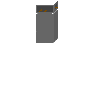
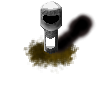
Montagnes, Megalopole, sons en combats, nouvelle image tour de défense
git-svn-id: svn://svn.gna.org/svn/menareants/trunk@818 6832cf7c-ce15-0410-9f4e-c008ec2580bf

Changed region(s): [[0.24, 0.0, 0.96, 0.69]]

diff --git a/lib/Batiments.h b/lib/Batiments.h
@@ -206,6 +206,44 @@ private:
 };
 
 /********************************************************************************************
+ *                               ECBMegalopole                                              *
+ ********************************************************************************************/
+/** This is a megalopole */
+class ECBMegalopole : public virtual ECBEntity
+{
+/* Constructeur/Destructeur */
+public:
+
+	ENTITY_EMPTY_CONSTRUCTOR(ECBMegalopole) {}
+
+	ENTITY_CONSTRUCTOR(ECBMegalopole) {}
+
+	virtual ~ECBMegalopole() {}
+
+/* Constantes */
+public:
+
+	virtual e_type Type() const { return E_MEGALOPOLE; }
+	virtual uint Cost() const { return 50000; }
+	virtual uint InitNb() const { return 5000; }
+	virtual uint Visibility() const { return 5; }
+
+	bool CanCreate(const ECBEntity*) { return false; }
+
+	virtual bool CanAttaq(const ECBEntity* e) { return false; }
+
+	virtual const char* Qual() const { return "la megalopole"; }
+	virtual bool IsBuilding() const { return true; }
+	virtual bool AddUnits(uint) { return false; }
+	virtual bool WantMove(ECBMove::E_Move, int) { return false; }
+	virtual bool WantAttaq(uint x, uint y, bool) { return false; }
+	virtual bool CanBeCreated(ECBPlayer* pl) const { return false; }
+	virtual bool IsCountryMaker() const { return true; }
+	virtual bool IsCity() const { return true; }
+	virtual int TurnMoney(ECBPlayer* pl) { return (pl == Owner() && Case()) ? (5 * Case()->Map()->CityMoney()) : 0; }
+};
+
+/********************************************************************************************
  *                               ECBCapitale                                                *
  ********************************************************************************************/
 /** This is a city */
@@ -227,6 +265,7 @@ public:
 	virtual uint Cost() const { return 15000; }
 	virtual uint InitNb() const { return 2000; }
 	virtual uint Visibility() const { return 4; }
+	virtual e_type MyUpgrade() const { return E_MEGALOPOLE; }
 
 	bool CanCreate(const ECBEntity*) { return false; }
 

diff --git a/src/Resources.cpp b/src/Resources.cpp
@@ -56,6 +56,8 @@
 	R_RESOURCE(Sound,        SoundStart,       "start.wav");
 	R_RESOURCE(Sound,        SoundBegin,       "begin.wav");
 	R_RESOURCE(Sound,        SoundEnd,         "end.wav");
+	R_RESOURCE(Sound,        SoundMitraillette,"bruits/machinegun.wav");
+	R_RESOURCE(Sound,        SoundObelisque,   "bruits/laserfire.wav");
 
 /* IMAGES*/
 	R_RESOURCE(ECSpriteBase, Intro,            "intro");
@@ -127,10 +129,11 @@
 	R_RESOURCE(ECSpriteBase, CasePontGauche,   "cases/pontgauche");
 	R_RESOURCE(ECSpriteBase, CasePontDroite,   "cases/pontdroite");
 	R_RESOURCE(ECSpriteBase, CaseTerreDead,    "cases/terredead");
-	R_RESOURCE(ECSpriteBase, CaseCityNODead,    "cases/citynodead");
-	R_RESOURCE(ECSpriteBase, CaseCityNEDead,    "cases/citynedead");
-	R_RESOURCE(ECSpriteBase, CaseCitySODead,    "cases/citysodead");
-	R_RESOURCE(ECSpriteBase, CaseCitySEDead,    "cases/citysedead");
+	R_RESOURCE(ECSpriteBase, CaseCityNODead,   "cases/citynodead");
+	R_RESOURCE(ECSpriteBase, CaseCityNEDead,   "cases/citynedead");
+	R_RESOURCE(ECSpriteBase, CaseCitySODead,   "cases/citysodead");
+	R_RESOURCE(ECSpriteBase, CaseCitySEDead,   "cases/citysedead");
+	R_RESOURCE(ECSpriteBase, CaseMontain,      "cases/montagne");
 	R_RESOURCE(ECSpriteBase, Brouillard,       "brouillard");
 	R_RESOURCE(ECImage,      Army_Icon,        PKGDATADIR_PICS "units/army_icon.png");
 	R_RESOURCE(ECSpriteBase, Army_Face,        "units/army/face");
@@ -198,6 +201,8 @@
 	R_RESOURCE(ECSpriteBase, McDo_Caserne,      "units/mcdo/caserne");
 	R_RESOURCE(ECImage,      Trees_Icon,        PKGDATADIR_PICS "units/trees_icon.png");
 	R_RESOURCE(ECSpriteBase, Trees_Face,        "units/trees");
+	R_RESOURCE(ECImage,      Megalopole_Icon,   PKGDATADIR_PICS "units/megalopole_icon.png");
+	R_RESOURCE(ECSpriteBase, Megalopole_Face,   "units/megalopole");
 #undef R_RESOURCE
 #undef R_RESOURCE_P
 #define R_TYPE(type) std::vector<type*> Resources::type##_objects

diff --git a/server/Batiments.h b/server/Batiments.h
@@ -122,6 +122,27 @@ public:
 };
 
 /********************************************************************************************
+ *                               ECMegalopole                                               *
+ ********************************************************************************************/
+class ECMegalopole : public ECEntity, public ECBMegalopole
+{
+/* Constructeur/Destructeur */
+public:
+
+	ENTITY_CONSTRUCTOR(ECMegalopole) {}
+
+/* Methodes */
+public:
+
+	/** @return last case */
+	virtual bool Return() { return false; }
+
+	virtual void CreateLast() {}
+
+	virtual void Union(ECEntity*) { return; }
+};
+
+/********************************************************************************************
  *                               ECapitale                                                  *
  ********************************************************************************************/
 class ECapitale : public ECEntity, public ECBCapitale

diff --git a/src/Resources.h b/src/Resources.h
@@ -92,6 +92,8 @@ public:
 	R_RESOURCE(Sound,        SoundStart);
 	R_RESOURCE(Sound,        SoundBegin);
 	R_RESOURCE(Sound,        SoundEnd);
+	R_RESOURCE(Sound,        SoundMitraillette);
+	R_RESOURCE(Sound,        SoundObelisque);
 
 	R_RESOURCE(ECSpriteBase, Intro);
 	R_RESOURCE(ECImage,      Titlescreen);
@@ -166,6 +168,7 @@ public:
 	R_RESOURCE(ECSpriteBase, CaseCityNEDead);
 	R_RESOURCE(ECSpriteBase, CaseCitySODead);
 	R_RESOURCE(ECSpriteBase, CaseCitySEDead);
+	R_RESOURCE(ECSpriteBase, CaseMontain);
 	R_RESOURCE(ECSpriteBase, Brouillard);
 	R_RESOURCE(ECImage,      Army_Icon);
 	R_RESOURCE(ECSpriteBase, Army_Face);
@@ -233,6 +236,8 @@ public:
 	R_RESOURCE(ECSpriteBase, McDo_Caserne);
 	R_RESOURCE(ECImage,      Trees_Icon);
 	R_RESOURCE(ECSpriteBase, Trees_Face);
+	R_RESOURCE(ECImage,      Megalopole_Icon);
+	R_RESOURCE(ECSpriteBase, Megalopole_Face);
 };
 
 #undef R_RESOURCE

diff --git a/src/Map.cpp b/src/Map.cpp
@@ -499,6 +499,7 @@ struct case_img_t case_img[] = {
 	{ 'q', Resources::CasePontDroite,      'p' },
 	{ 'r', Resources::CasePontHaut,        'p' },
 	{ 's', Resources::CasePontBas,         'p' },
+	{ 'M', Resources::CaseMontain,         'M' }
 };
 
 void TBarreCaseIcons::GoLast(TObject* o, void* e)
@@ -572,9 +573,10 @@ static struct
 	ECBCase* (*func) (ECBMap *map, uint x, uint y, uint flgs, char type_id);
 	uint flags;
 } case_type[] = {
-	{ 'm', CreateCase<ECMer>,   C_MER              },
-	{ 't', CreateCase<ECTerre>, C_TERRE            },
-	{ 'p', CreateCase<ECPont>,  C_PONT             }
+	{ 'm', CreateCase<ECMer>,      C_MER              },
+	{ 't', CreateCase<ECTerre>,    C_TERRE            },
+	{ 'p', CreateCase<ECPont>,     C_PONT             },
+	{ 'M', CreateCase<ECMontain>,  C_MONTAIN          }
 };
 
 ECBCase* ECMap::CreateCase(uint _x, uint _y, char type_id)

diff --git a/src/Units.cpp b/src/Units.cpp
@@ -24,6 +24,7 @@
 #include "gui/ColorEdit.h"
 #include "Channels.h"
 #include "Sockets.h"
+#include "Sound.h"
 #include <SDL_gfxPrimitives.h>
 
 /********************************************************************************************
@@ -289,6 +290,7 @@ bool ECUnit::AfterEvent(const std::vector<ECEntity*>&, ECase* c, EC_Client*)
 				SetAttaqImg(images[I_Attaq], Image()->X(), Image()->Y());
 				AttaqImg()->SetRepeat(false);
 				AttaqImg()->SetAnim(true);
+				Resources::SoundMitraillette()->Play(true);
 				return false;
 			}
 			if(AttaqImg()->Anim())
@@ -298,6 +300,7 @@ bool ECUnit::AfterEvent(const std::vector<ECEntity*>&, ECase* c, EC_Client*)
 			}
 	
 			SetAttaqImg(0,0,0);
+			Resources::SoundMitraillette()->Stop();
 		}
 	}
 	if(event_type & ARM_MOVE)

diff --git a/src/Sound.cpp b/src/Sound.cpp
@@ -227,7 +227,7 @@ int Sound::Stop()
 	return IsMusic() ? Mix_HaltMusic() : Mix_HaltChannel(channel);
 }
 
-void Sound::Play()
+void Sound::Play(bool repeat)
 {
 	if(Playing() || !Sound::init) { return; }
 
@@ -242,7 +242,7 @@ void Sound::Play()
 			Debug(W_WARNING, "Sound::Play(%s): %s", path.c_str(), Mix_GetError());
 			return;
 		}
-		channel = Mix_PlayMusic(music,0);
+		channel = Mix_PlayMusic(music, repeat ? -1 : 0);
 	}
 	else
 	{
@@ -255,7 +255,7 @@ void Sound::Play()
 			Debug(W_WARNING, "Sound::Play(%s): %s", path.c_str(), Mix_GetError());
 			return;
 		}
-		channel = Mix_PlayChannel(-1, chunk, 0);
+		channel = Mix_PlayChannel(-1, chunk, repeat ? -1 : 0);
 	}
 
 	if (channel == -1)

diff --git a/src/Batiments.cpp b/src/Batiments.cpp
@@ -19,8 +19,9 @@
  * $Id$
  */
 
-#include "Channels.h"
 #include "Batiments.h"
+#include "Channels.h"
+#include "Sound.h"
 #include "gui/ColorEdit.h"
 #include "gui/ShowMap.h"
 #include "tools/Video.h" // Pour obtenir SCREEN_WIDTH
@@ -373,6 +374,7 @@ bool ECObelisk::MakeEvent(const std::vector<ECEntity*>& entities, ECase* c, EC_C
 			                             c->X() < Case()->X() ? dx-1 : 0,
 			                             c->Y() < Case()->Y() ? dy-1 : 0,
 			                             img.MapColor(red_color));
+			Resources::SoundObelisque()->Play();
 			victim = c;
 			SDL_Delay(1500);
 			victim = 0;

diff --git a/lib/Map.cpp b/lib/Map.cpp
@@ -426,9 +426,10 @@ static struct
 	ECBCase* (*func) (ECBMap *map, uint x, uint y, uint flgs, char type_id);
 	uint flags;
 } case_type[] = {
-	{ 'm', CreateCase<ECBMer>,   C_MER              },
-	{ 't', CreateCase<ECBTerre>, C_TERRE            },
-	{ 'p', CreateCase<ECBPont>,  C_PONT             }
+	{ 'm', CreateCase<ECBMer>,     C_MER              },
+	{ 't', CreateCase<ECBTerre>,   C_TERRE            },
+	{ 'p', CreateCase<ECBPont>,    C_PONT             },
+	{ 'M', CreateCase<ECBMontain>, C_MONTAIN          }
 };
 
 ECBCase* ECBMap::CreateCase(uint _x, uint _y, char type_id)
